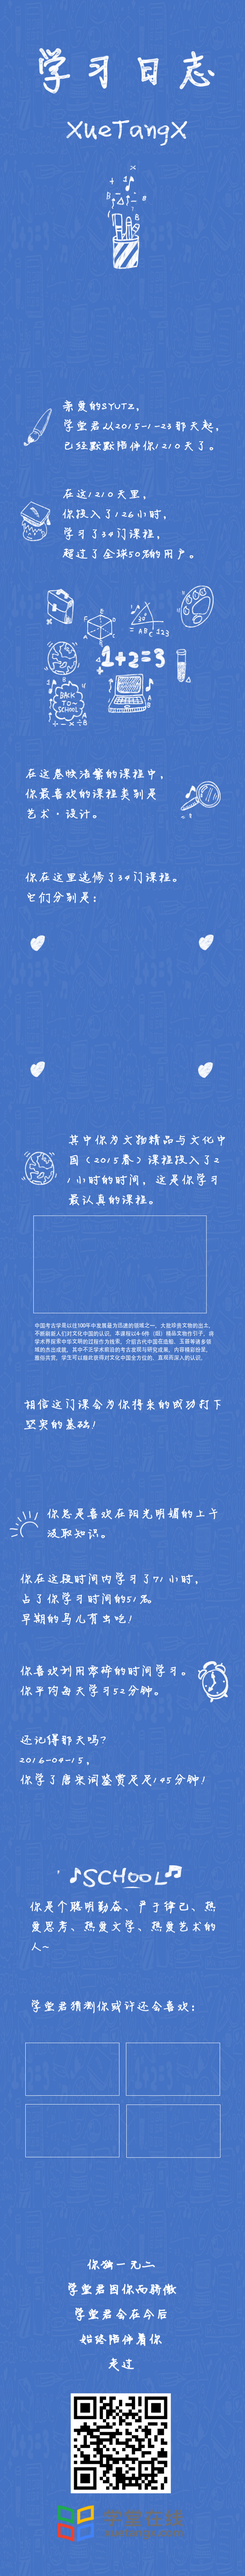
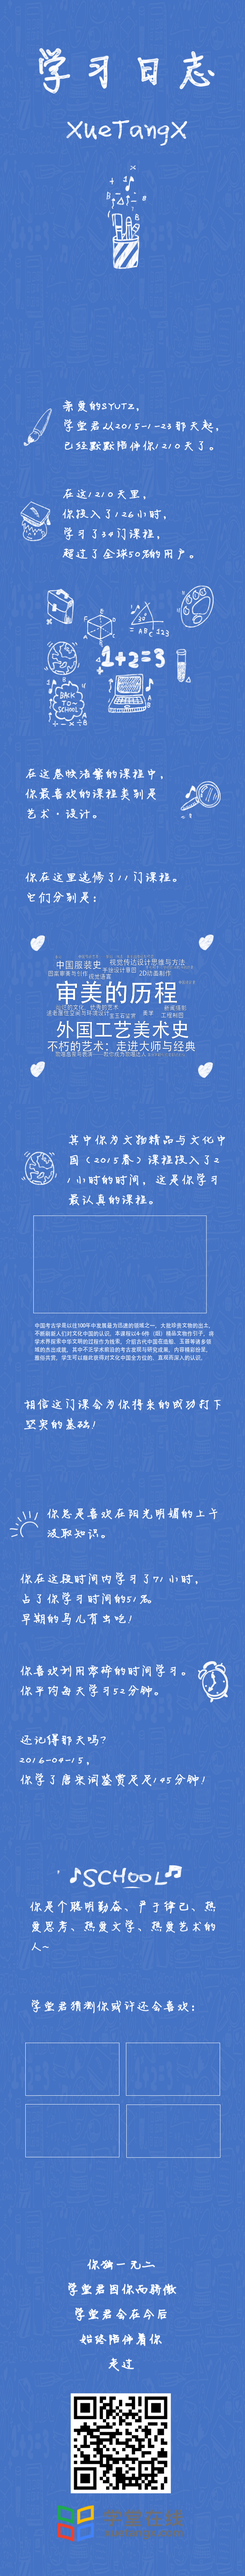
finish wordcloud

Changed region(s): [[0.2188, 0.375, 0.7812, 0.4062]]

diff --git a/render_zyh/render.py b/render_zyh/render.py
@@ -1,7 +1,9 @@
 #encoding=utf-8
 from PIL import Image
 from wordcloud import WordCloud
-from render_zyh.utils import require, typewriter
+from render_zyh.utils import require, typewriter, normalized
+import matplotlib.pyplot as plt
+import random
 
 img_dir = 'render_zyh/assets/images/'
 font_dir = 'render_zyh/assets/fonts/'
@@ -30,13 +32,36 @@ def render2(data):
 
 @require(
     max_category='课组名',
+    max_cnt='课组选课数',
     user_courses='用户选修过的所有课程，是一个列表，其中每个元素应具有`name`和`watch_time`两个字段',
     category_courses='用户选修最多的那个课程的一部分课程，用来占位，其中每个元素应当有`name`这个字段',
 )
 def render3(data):
+    def white_color_func(word, font_size, position, orientation, random_state=None, **kwargs):
+        return "rgb(255,255,255)"
     img = Image.open(img_dir + '3.png')
     typewriter(img, (63, 80), (432, 280), '在这卷帙浩繁的课程中，\n你最喜欢的课程类别是\n%s。' % (data['max_category']), font_dir + 'FZJL.TTF', 35, (255, 255, 255, 255))
-    typewriter(img, (63, 350), (539, 478), '你在这里选修了%s门课程。\n它们分别是：' % (len(data['user_courses'])), font_dir + 'FZJL.TTF', 35, (255, 255, 255, 255))
+    typewriter(img, (63, 350), (539, 478), '你在这里选修了%s门课程。\n它们分别是：' % (data['max_cnt']), font_dir + 'FZJL.TTF', 35, (255, 255, 255, 255))
+    max_courses = 20
+    frequencies = {}
+    
+    for course in data['user_courses']:
+        if len(frequencies) > max_courses: break
+        name = normalized(course['name'])
+        for category in course['category']:
+            if category == data['max_category']:
+                frequencies[name] = course['watch_time'] / 3600 + 1
+                break
+        
+    for course in data['category_courses']:
+        if len(frequencies) > max_courses: break
+        name = normalized(course['name'])
+        if name not in frequencies: frequencies[name] = 1
+        
+
+    wordcloud = WordCloud(scale=1, mode='RGBA', background_color=None, width=395, height=270, font_path=font_dir + 'HT.otf') \
+        .generate_from_frequencies(frequencies).recolor(color_func=white_color_func).to_image()
+    img.paste(wordcloud, (120, 570), wordcloud)
     return img
 
 

diff --git a/db_zyh/db.py b/db_zyh/db.py
@@ -65,7 +65,7 @@ def get_data3(user_id):
     if record is None: category_courses = []
     else: category_courses = record['courses']
 
-    return {'user_courses': user_courses, 'category_courses': category_courses, 'max_category': max_category }
+    return {'user_courses': user_courses, 'category_courses': category_courses, 'max_category': max_category, 'max_cnt': max_cnt }
 
 
 def get_data4(user_id):

diff --git a/README.md b/README.md
@@ -1,5 +1,12 @@
 # XuetangXAPI
 
-问题汇总：
-1. pymongo==2.9.2
-2. /etc/hosts必须有127.0.0.1 localhost
+Requirements：
+- pymongo==2.9.2
+- PILLOW==4.2.1
+- wordcloud==1.4.1
+- add '127.0.0.1 localhost' to /etc/hosts
+
+Build Dataset:
+- python build_mongo.py
+- python build_categories.py
+- python build_courses.py
